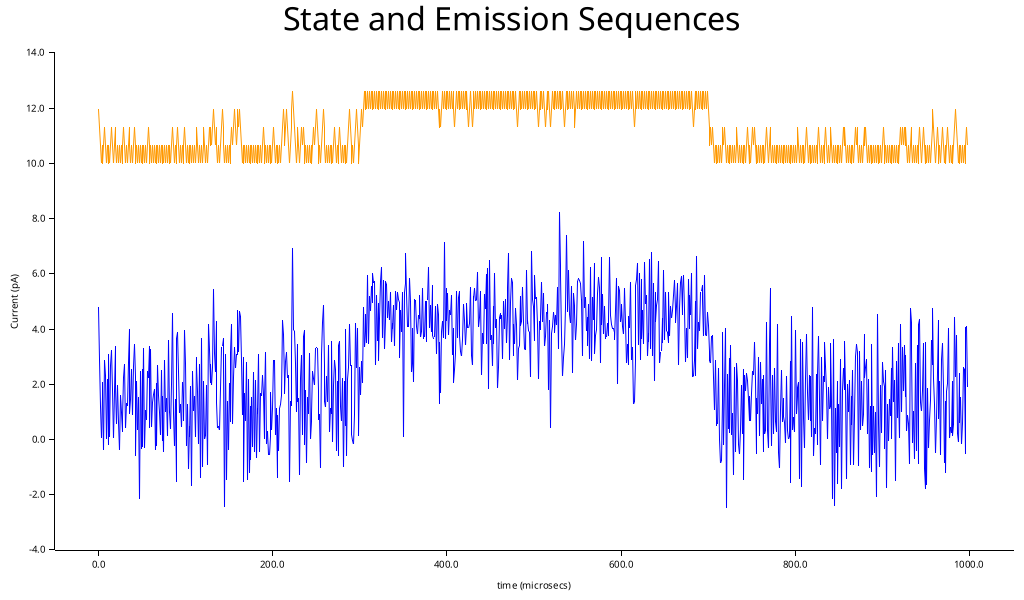
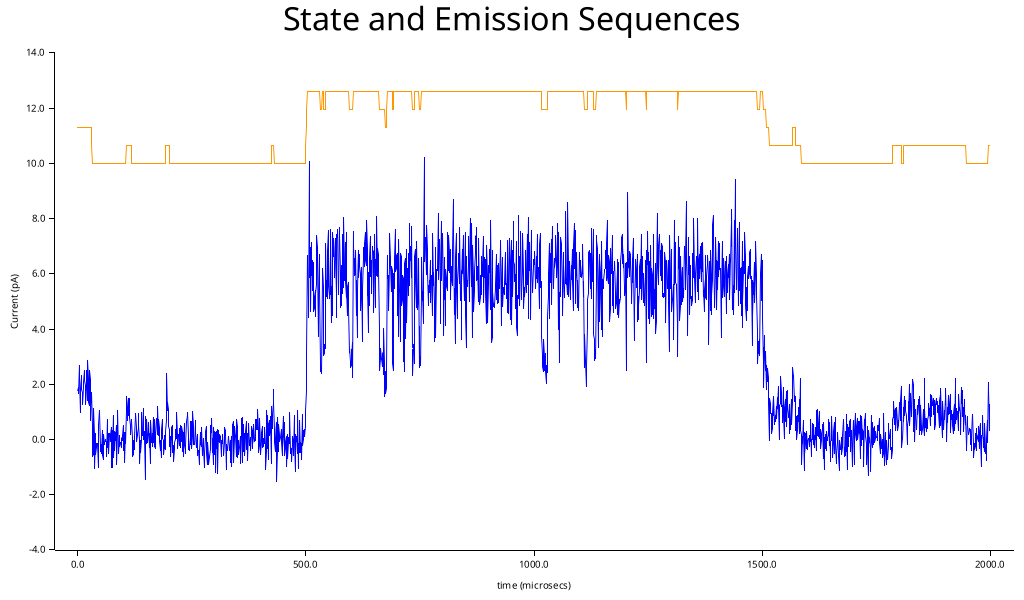
in an alternative reality, we do not use gillespie alg yet

diff --git a/src/main.rs b/src/main.rs
@@ -111,19 +111,11 @@ impl Channel {
  *
  * for safety, asserts that the sum of the p.0s == num_ts
  */
-fn generate_stimulus(stim_intervals: &json::JsonValue, total_time: f32, dt: f32) -> Vec<f32> {
+fn generate_stimulus(stim_intervals: &json::JsonValue) -> Vec<(f32, f32)> {
     assert!(stim_intervals.is_array());
-    let num_ts = (total_time / dt) as usize + 1usize;
-    let mut stim: Vec<f32> = vec![0.0; num_ts];
-    let mut ts_offset: usize = 0;
-    for pair in stim_intervals.members() {
-        let interval_num_ts = (pair["step_dt"].as_f32().unwrap() / dt) as usize;
-        let interval_step_v: f32 = pair["step_v"].as_f32().unwrap();
-        for ts in ts_offset..(ts_offset + interval_num_ts) {
-            stim[ts] = interval_step_v;
-        }
-        ts_offset += interval_num_ts;
-    }
+    let stim: Vec<(f32, f32)> = stim_intervals.members().map(|p| {
+        (p["step_t"].as_f32().unwrap(), p["step_v"].as_f32().unwrap())
+    }).collect();
     stim
 }
 
@@ -180,13 +172,22 @@ impl EmisDist {
     }
 }
 
+fn generate_trans_matrix(c_r_p: &ChannelRateParams) -> [[f32; 5]; 5] {
+    [
+        [1.0 - 4.0 * c_r_p.open_prob, 4.0 * c_r_p.open_prob, 0.0, 0.0, 0.0],
+        [c_r_p.close_prob, 1.0 - c_r_p.close_prob - 3.0 * c_r_p.open_prob, 3.0 * c_r_p.open_prob, 0.0, 0.0],
+        [0.0, 2.0 * c_r_p.close_prob, 1.0 - 2.0 * (c_r_p.close_prob + c_r_p.open_prob), 2.0 * c_r_p.open_prob, 0.0],
+        [0.0, 0.0, 3.0 * c_r_p.close_prob, 1.0 - 3.0 * c_r_p.close_prob - c_r_p.open_prob, c_r_p.open_prob],
+        [0.0, 0.0, 0.0, 4.0 * c_r_p.close_prob, 1.0 - 4.0 * c_r_p.close_prob],
+    ]
+}
 #[derive(Debug)]
 pub struct Simulation {
     pub num_channels: u32,
     pub total_time: u32,
     pub dt: f32,
     pub channels: Vec<Channel>,
-    pub stimulus: Vec<f32>,
+    pub stimulus: Vec<(f32, f32)>,
     pub emis_dists: EmisDist,
     pub transition_matrix: [[f32; 5]; 5],
     pub c_r_p: ChannelRateParams,
@@ -204,43 +205,35 @@ impl Simulation {
             total_time: total_time,
             dt: dt,
             channels: vec![Channel::new(); num_channels as usize],
-            stimulus: generate_stimulus(stim_intervals, total_time as f32, dt),
+            stimulus: generate_stimulus(stim_intervals),
             emis_dists: EmisDist::from(emis_params),
-            transition_matrix: [
-                [0.0, 4.0 * c_r_p.open_prob, 0.0, 0.0, 0.0],
-                [c_r_p.close_prob, 0.0, 3.0 * c_r_p.open_prob, 0.0, 0.0],
-                [0.0, 2.0 * c_r_p.close_prob, 0.0, 2.0 * c_r_p.open_prob, 0.0],
-                [0.0, 0.0, 3.0 * c_r_p.close_prob, 0.0, c_r_p.open_prob],
-                [0.0, 0.0, 0.0, 4.0 * c_r_p.close_prob, 0.0],
-            ],
+            transition_matrix: generate_trans_matrix(&c_r_p),
             c_r_p: c_r_p,
         }
     }
 
-    fn update_probs(&mut self, ts: u32) {
+    fn update_probs(&mut self, voltage: f32) {
         // for now: hard-coding in values for delayed K+ rectifier conductance
         self.c_r_p.open_prob =
             DEFAULT_OPEN_RATE *
-            (self.c_r_p.open_exp_const * self.stimulus[ts as usize]).exp() * self.dt;
+            (self.c_r_p.open_exp_const * voltage).exp() * self.dt;
         self.c_r_p.close_prob =
             DEFAULT_CLOSE_RATE *
-            (self.c_r_p.close_exp_const * self.stimulus[ts as usize]).exp() * self.dt;
+            (self.c_r_p.close_exp_const * voltage).exp() * self.dt;
     }
 
     fn update_transition_matrix(&mut self) {
-        self.transition_matrix = [
-            [0.0, 4.0 * self.c_r_p.open_prob, 0.0, 0.0, 0.0],
-            [self.c_r_p.close_prob, 0.0, 3.0 * self.c_r_p.open_prob, 0.0, 0.0],
-            [0.0, 2.0 * self.c_r_p.close_prob, 0.0, 2.0 * self.c_r_p.open_prob, 0.0],
-            [0.0, 0.0, 3.0 * self.c_r_p.close_prob, 0.0, self.c_r_p.open_prob],
-            [0.0, 0.0, 0.0, 4.0 * self.c_r_p.close_prob, 0.0]
-        ];
+        self.transition_matrix = generate_trans_matrix(&self.c_r_p);
     }
 
     fn run(&mut self) {
+        let mut stim_id: usize = 0;
         for ts in 0..((self.total_time as f32 / self.dt) as u32) {
-            self.update_probs(ts);
-            self.update_transition_matrix();
+            if stim_id < self.stimulus.len() && ts == (self.stimulus[stim_id].0 / self.dt) as u32 {
+                self.update_probs(self.stimulus[stim_id].1);
+                self.update_transition_matrix();
+                stim_id += 1;
+            }
             for channel in &mut self.channels {
                 channel.make_transition(&self.transition_matrix);
                 channel.sample_emission(&self.emis_dists);
